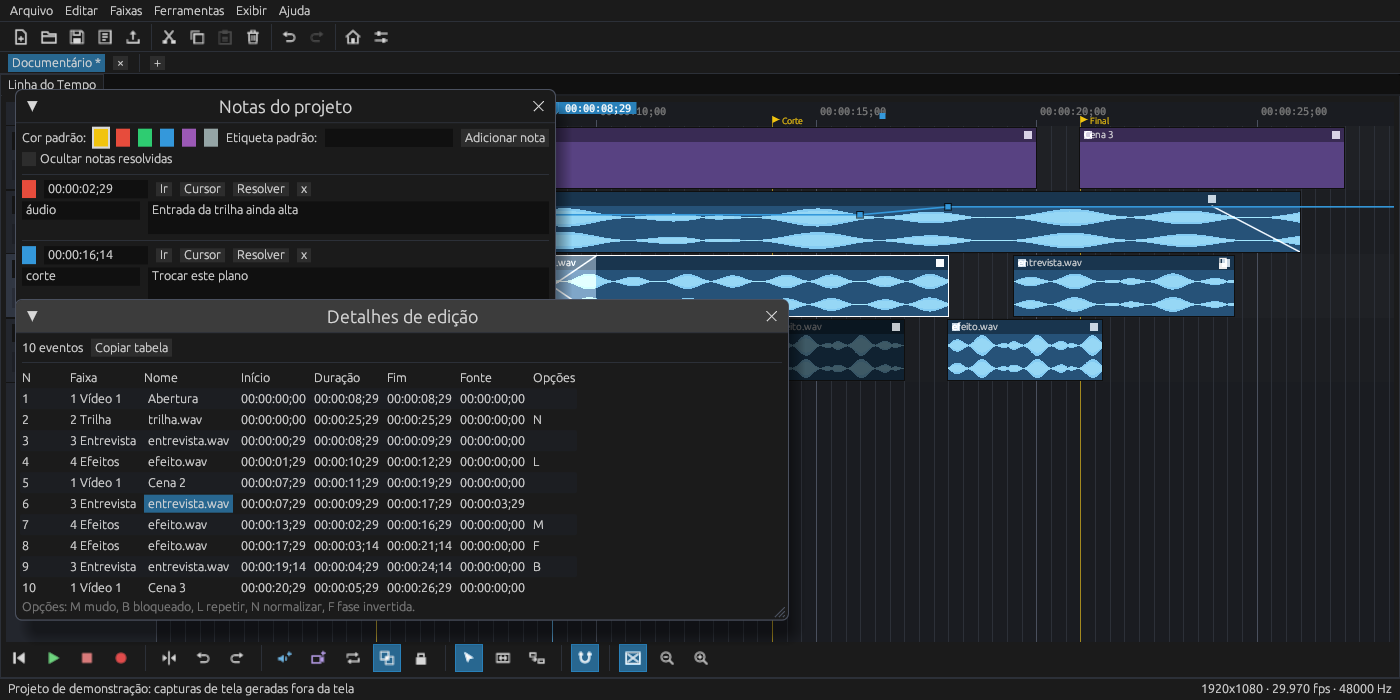
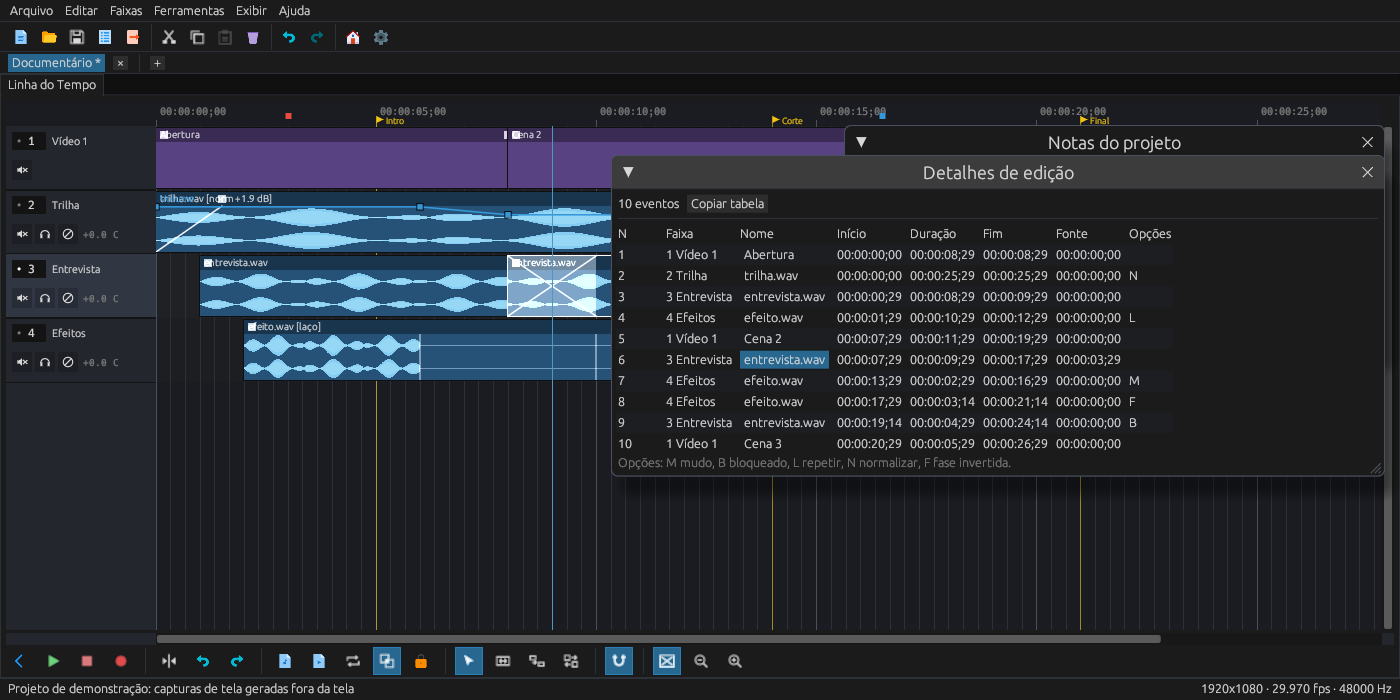
test(ui): captura offscreen dos efeitos de video e imagens regeneradas
Oitava captura (ui_video_effects.png) com cadeia no evento, na midia e no projeto e a
previa com o resultado. As demais imagens foram regeneradas porque o dock padrao ganhou a
aba Efeitos de Video e os icones coloridos passaram a valer por padrao.

Claude-Session: https://claude.ai/code/session_011aRuVp66PS28MyaXdbuBRX

diff --git a/crates/neoveg_ui/src/app/headless.rs b/crates/neoveg_ui/src/app/headless.rs
@@ -23,7 +23,7 @@ const START_TIME: f64 = 0.2;
 const FRAME_STEP: f64 = 0.02;
 
 /// File names written by [`run`].
-pub const OUTPUTS: [&str; 7] = [
+pub const OUTPUTS: [&str; 8] = [
     "ui_main_layout.png",
     "ui_timeline_events.png",
     "ui_multi_project_tabs.png",
@@ -31,6 +31,7 @@ pub const OUTPUTS: [&str; 7] = [
     "ui_welcome_screen.png",
     "ui_project_properties.png",
     "ui_edit_details.png",
+    "ui_video_effects.png",
 ];
 
 /// Renders every screenshot into `dir` (created if needed).
@@ -101,6 +102,16 @@ pub fn run(dir: &Path) -> Result<(), String> {
         let mut app = headless_app(state, DockState::new(vec![Tab::Timeline]));
         let image = gpu.capture(&ctx, [1400, 700], |ctx| app.show(ctx))?;
         save(&image, &dir.join(OUTPUTS[6]))?;
+
+        // 8. The video effects panel with a chain on the event, its media and the project, and
+        // the preview showing the chain
+        let ctx = new_context();
+        let mut state = demo_project_with_video_effects();
+        let chain = preview_chain(&state);
+        install_sample_frame_with(&ctx, &mut state, &chain);
+        let mut app = headless_app(state, effects_dock());
+        let image = gpu.capture(&ctx, [1600, 900], |ctx| app.show(ctx))?;
+        save(&image, &dir.join(OUTPUTS[7]))?;
         Ok(())
     })();
     let _ = std::fs::remove_dir_all(&scratch);
@@ -370,12 +381,22 @@ fn decode_sample_frame(video: &Path, seconds: f64) -> Option<neoveg_video::frame
 /// cursor time (the whole frame, as the decoder returns it), uploaded as the preview texture, and its
 /// scopes. Without the sample file or `ffmpeg` the preview stays as it was and `false` is returned.
 fn install_sample_frame(ctx: &egui::Context, state: &mut AppState) -> bool {
+    install_sample_frame_with(ctx, state, &[])
+}
+
+/// Like [`install_sample_frame`], with the video effect chain run on the frame first.
+fn install_sample_frame_with(
+    ctx: &egui::Context,
+    state: &mut AppState,
+    chain: &[neoveg_video::vfx::VideoEffect],
+) -> bool {
     // The frame at the cursor: frame index (floor) over the project rate, like the timecode box
     let fps = state.project.settings.fps;
     let seconds = (state.playhead * fps).floor() / fps;
-    let Some(frame) = decode_sample_frame(Path::new(SAMPLE_VIDEO), seconds) else {
+    let Some(mut frame) = decode_sample_frame(Path::new(SAMPLE_VIDEO), seconds) else {
         return false;
     };
+    neoveg_video::vfx::apply_chain_cpu(&mut frame, chain);
     state.frame_scopes = Some(Scopes::from_frame(&frame));
     state.frame_scopes_version += 1;
     let image = egui::ColorImage::from_rgba_unmultiplied(
@@ -544,6 +565,71 @@ fn demo_project() -> AppState {
     s
 }
 
+/// The demonstration project with a video effect chain on the first event, on its media and on the
+/// project, and that event selected so the panel shows its chain.
+fn demo_project_with_video_effects() -> AppState {
+    use neoveg_engine::TrackEffect;
+    let mut s = demo_project();
+    let (track_id, event_id) = {
+        let track = s
+            .timeline
+            .tracks
+            .iter_mut()
+            .find(|t| t.kind == TrackKind::Video)
+            .expect("the demonstration has a video track");
+        let mut blur = TrackEffect::new("gaussian_blur");
+        blur.params.insert("h_range".into(), 0.012);
+        blur.params.insert("v_range".into(), 0.012);
+        let mut vignette = TrackEffect::new("vignette");
+        vignette.params.insert("inner_radius".into(), 0.35);
+        let mut off = TrackEffect::new("sharpen");
+        off.bypass = true;
+        let event = &mut track.events[0];
+        event.video_effects = vec![blur, vignette, off];
+        (track.id, event.id)
+    };
+    s.timeline
+        .media_video_effects
+        .insert(4, vec![TrackEffect::new("unsharp_mask")]);
+    s.timeline.video_effects = vec![TrackEffect::new("vignette")];
+    s.selected_track = Some(track_id);
+    s.selection.select_only((track_id, event_id));
+    s.playhead = 3.0;
+    s.status = "Efeitos de vídeo: cadeia no evento, na mídia e no projeto".into();
+    s
+}
+
+/// The chain the preview shows for the first video event: media, event, then project (the track
+/// has none), the same order as the worker.
+fn preview_chain(state: &AppState) -> Vec<neoveg_video::vfx::VideoEffect> {
+    use crate::video_fx_panel::to_worker_chain;
+    let track = state
+        .timeline
+        .tracks
+        .iter()
+        .find(|t| t.kind == TrackKind::Video)
+        .expect("a video track");
+    let event = &track.events[0];
+    let mut chain = event
+        .media_id
+        .and_then(|m| state.timeline.media_video_effects.get(&m))
+        .map(|c| to_worker_chain(c))
+        .unwrap_or_default();
+    chain.extend(to_worker_chain(&event.video_effects));
+    chain.extend(to_worker_chain(&track.video_effects));
+    chain.extend(to_worker_chain(&state.timeline.video_effects));
+    chain
+}
+
+/// The preview, the video effects panel and the timeline.
+fn effects_dock() -> DockState<Tab> {
+    let mut dock = DockState::new(vec![Tab::Preview]);
+    let surface = dock.main_surface_mut();
+    let [top, _timeline] = surface.split_below(NodeIndex::root(), 0.58, vec![Tab::Timeline]);
+    surface.split_right(top, 0.60, vec![Tab::VideoFx]);
+    dock
+}
+
 /// Several projects open at once: the main one, a draft and a sub-project made from two events.
 fn demo_tabs(ctx: &egui::Context, scratch: &Path) -> AppState {
     let mut s = demo_project();
@@ -687,5 +773,28 @@ mod tests {
         assert_eq!(s.tab_ids().len(), 3);
         assert_eq!(s.project.name, "Documentário");
         let _ = std::fs::remove_dir_all(dir);
+    }
+
+    #[test]
+    fn the_video_effects_demo_has_a_chain_at_each_level_and_the_preview_runs_them() {
+        let s = demo_project_with_video_effects();
+        let track = s
+            .timeline
+            .tracks
+            .iter()
+            .find(|t| t.kind == TrackKind::Video)
+            .unwrap();
+        assert_eq!(track.events[0].video_effects.len(), 3);
+        assert_eq!(s.timeline.media_video_effects[&4].len(), 1);
+        assert_eq!(s.timeline.video_effects.len(), 1);
+        let (target, _, scopes) = s.vfx_target();
+        assert!(matches!(target, VideoFxTarget::Event { .. }));
+        assert!(scopes.event && scopes.media && scopes.track);
+        // media (1) + event without the bypassed sharpen (2) + project (1)
+        let kinds: Vec<String> = preview_chain(&s).into_iter().map(|e| e.kind).collect();
+        assert_eq!(
+            kinds,
+            ["unsharp_mask", "gaussian_blur", "vignette", "vignette"]
+        );
     }
 }

diff --git a/crates/neoveg_ui/tests/headless_screenshot.rs b/crates/neoveg_ui/tests/headless_screenshot.rs
@@ -16,7 +16,7 @@ use std::collections::HashSet;
 use std::path::PathBuf;
 use std::process::Command;
 
-const EXPECTED: [(&str, u32, u32); 7] = [
+const EXPECTED: [(&str, u32, u32); 8] = [
     ("ui_main_layout.png", 1600, 900),
     ("ui_timeline_events.png", 1400, 520),
     ("ui_multi_project_tabs.png", 1600, 900),
@@ -24,6 +24,7 @@ const EXPECTED: [(&str, u32, u32); 7] = [
     ("ui_welcome_screen.png", 1280, 720),
     ("ui_project_properties.png", 1280, 860),
     ("ui_edit_details.png", 1400, 700),
+    ("ui_video_effects.png", 1600, 900),
 ];
 
 fn output_dir() -> PathBuf {

diff --git a/README.md b/README.md
@@ -58,6 +58,12 @@ Ao iniciar, a tela de boas-vindas lista os **projetos recentes** (os arquivos qu
 
 As **notas do projeto** ficam presas a um tempo da linha do tempo (quadrado colorido na régua), com cor, etiqueta e texto, e podem ser resolvidas ou ocultadas. Os **detalhes de edição** listam todos os eventos como uma lista de cortes.
 
+### Efeitos de vídeo
+
+![Efeitos de vídeo](docs/screenshots/ui_video_effects.png)
+
+A aba **Efeitos de Vídeo** (`Ctrl+Alt+8`, ao lado de Efeitos de Áudio) edita a cadeia do **evento** selecionado, da **mídia** dele (vale para todos os eventos que a usam), da **faixa** ou do **projeto**. Na imagem, o evento *Abertura* tem desfoque gaussiano, vinheta e uma nitidez em bypass; a mídia tem uma máscara de nitidez e o projeto uma vinheta. A prévia mostra o resultado, e um controle arrastado aparece nela ao vivo antes de soltar.
+
 ### Propriedades do projeto
 
 ![Propriedades do projeto](docs/screenshots/ui_project_properties.png)
